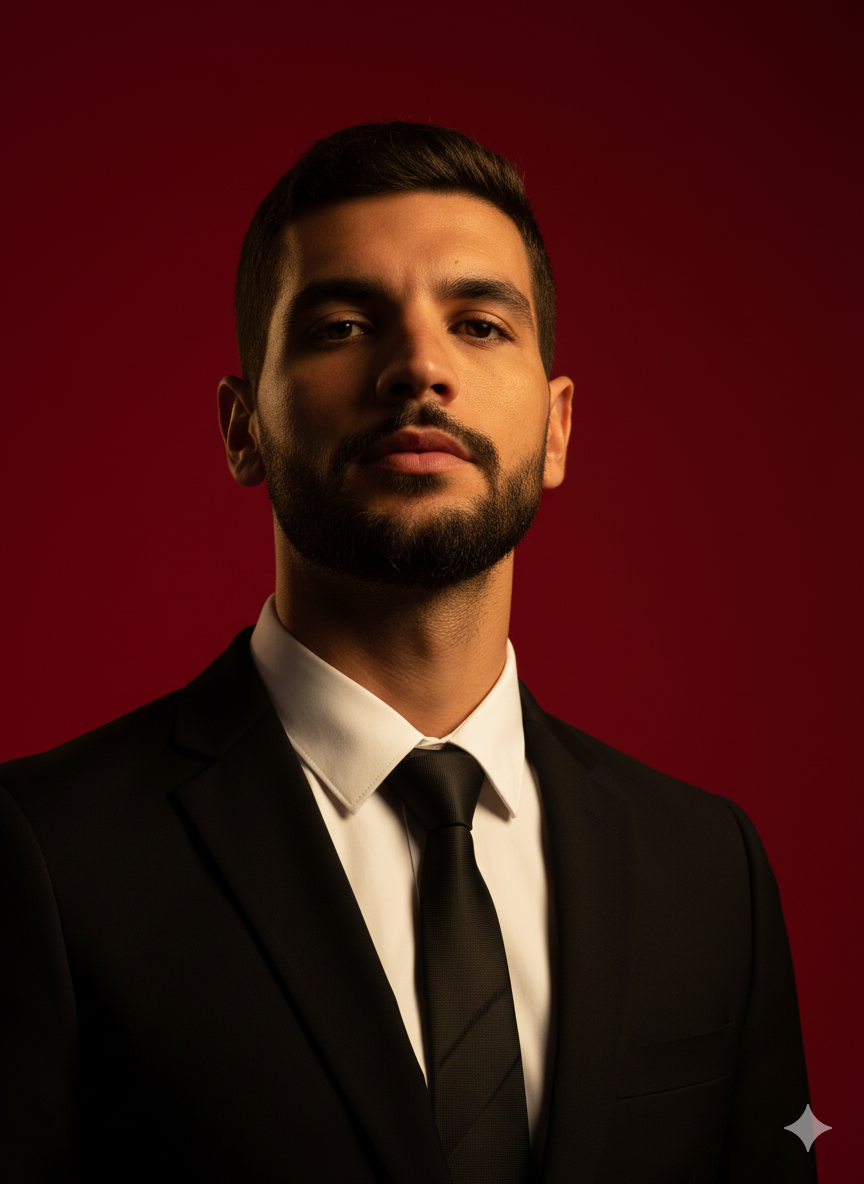
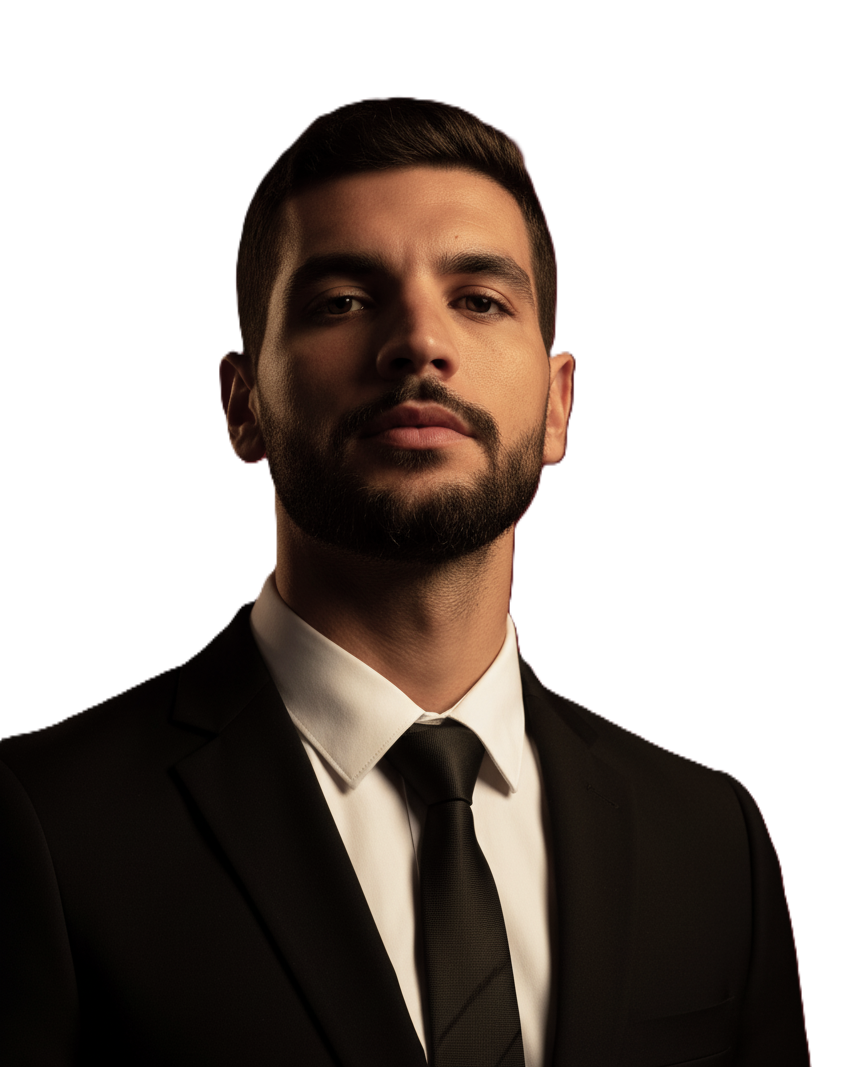
fix img

diff --git a/app/(public)/introduction/page.tsx b/app/(public)/introduction/page.tsx
@@ -36,7 +36,7 @@ export default function IntroductionPage() {
                     Place 'me.jpg' in public/images/ and update src below.
                  */}
                 <InnovativeImage
-                  src="/me1.png"
+                  src="/me.png"
                   alt="Bahaeddine Ellouze"
                   className="w-full h-full"
                 />
